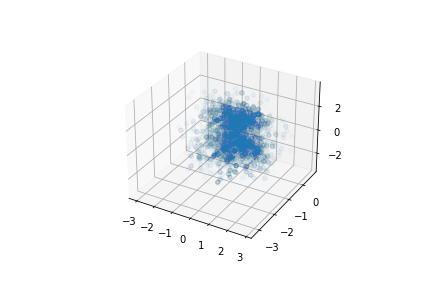
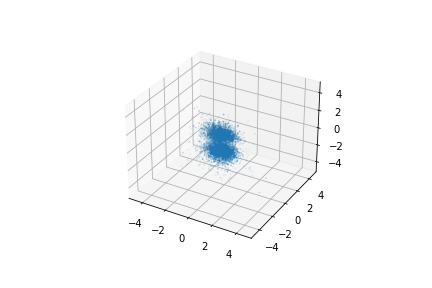
Correct Plots have been commited!

diff --git a/eigen_search.py b/eigen_search.py
@@ -529,7 +529,7 @@ def vector_eigen_for_choice_of_basis_init_wronsks(which_basis_init_wronsks=[0,0,
                 #ax.plot(np.arange(0,end_of_radius,.0001), [(radial_func(r)**2) * (r**2) for r in np.arange(0,end_of_radius,.0001)])
                 #fig.savefig(f"Images/Radial_Probability_Densities/Prob_{n}_{l}_{m}")
                 
-                point_cloud_plot(un_normed_probability_density, metropolis_starting_window=window, func_coord_system='spherical', window_coord_system='cartesian', num_points=100, alpha=1, filename=f'{n}_{l}_{m}')
+                point_cloud_plot(un_normed_probability_density, metropolis_starting_window=window, func_coord_system='spherical', window_coord_system='cartesian', num_points=10000, alpha=.1, filename=f'{n}_{l}_{m}')
                 print('check result!')
 
                 
